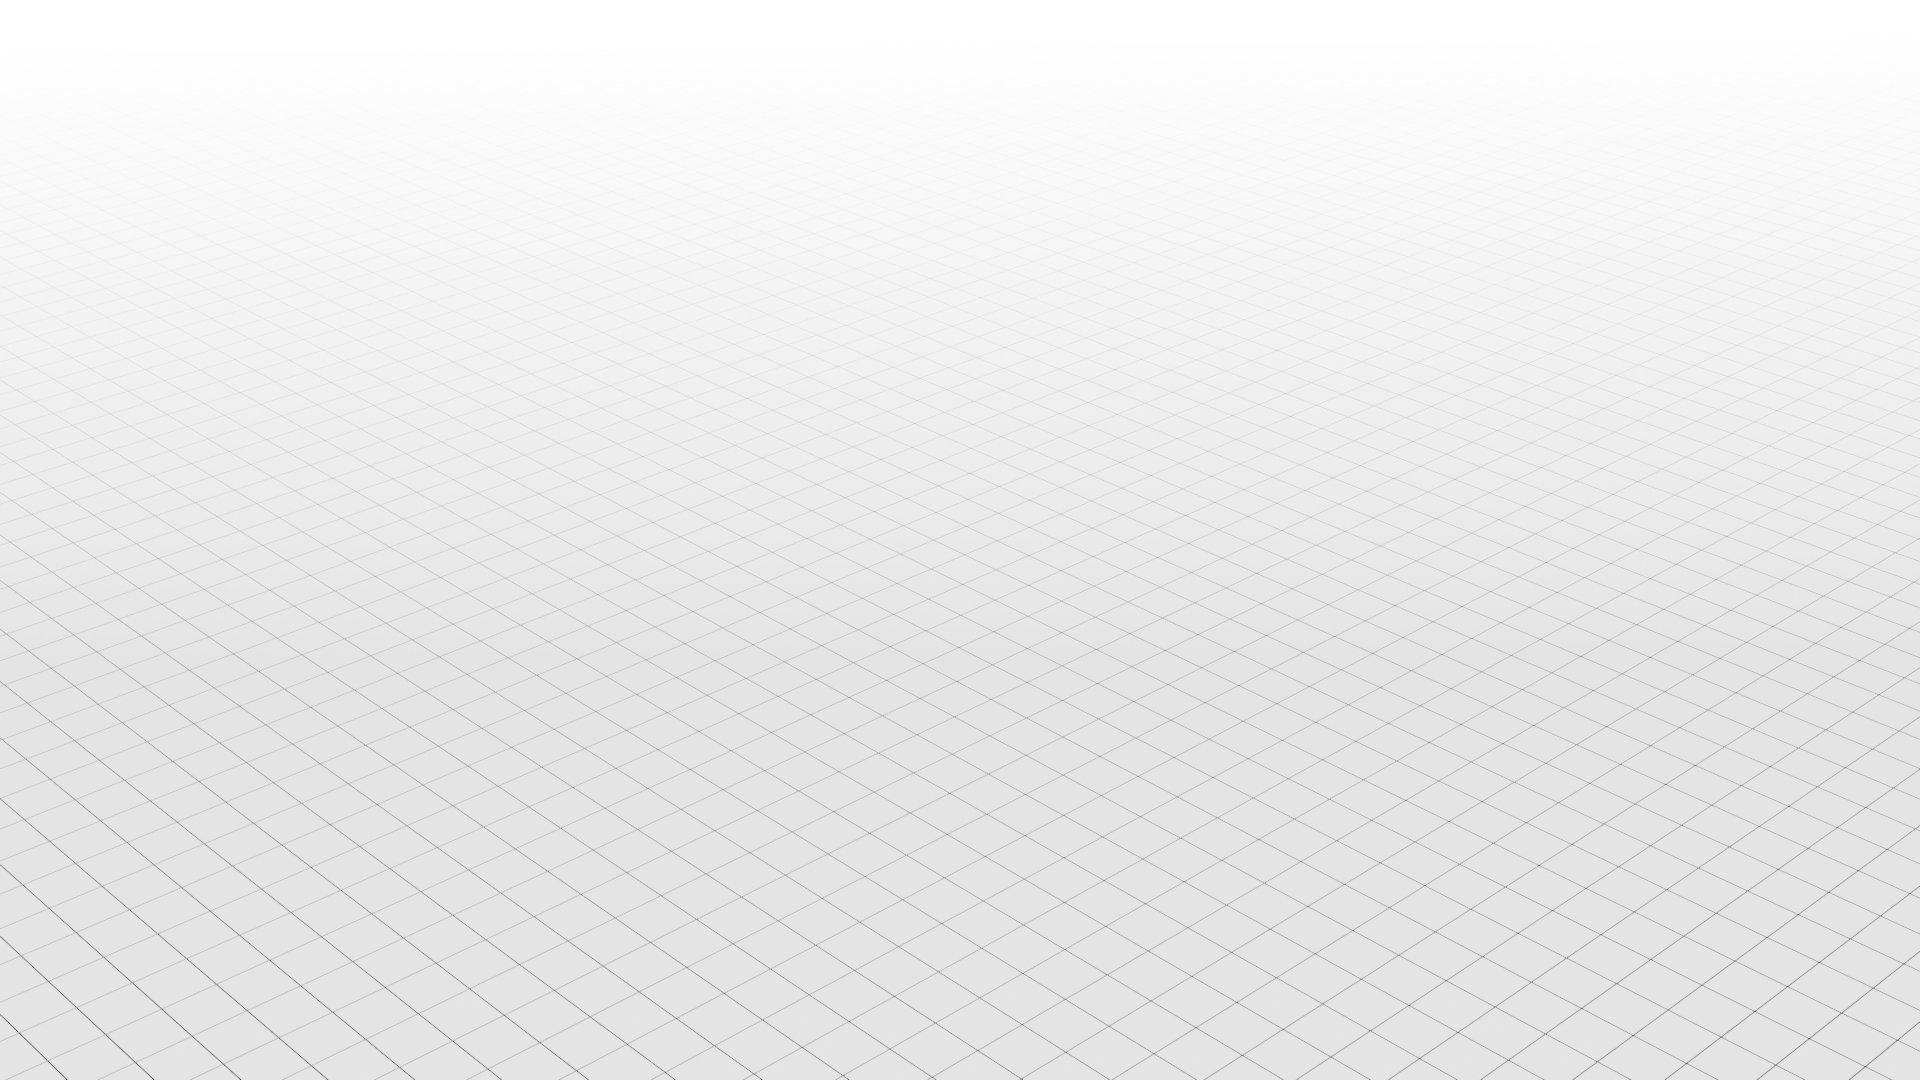
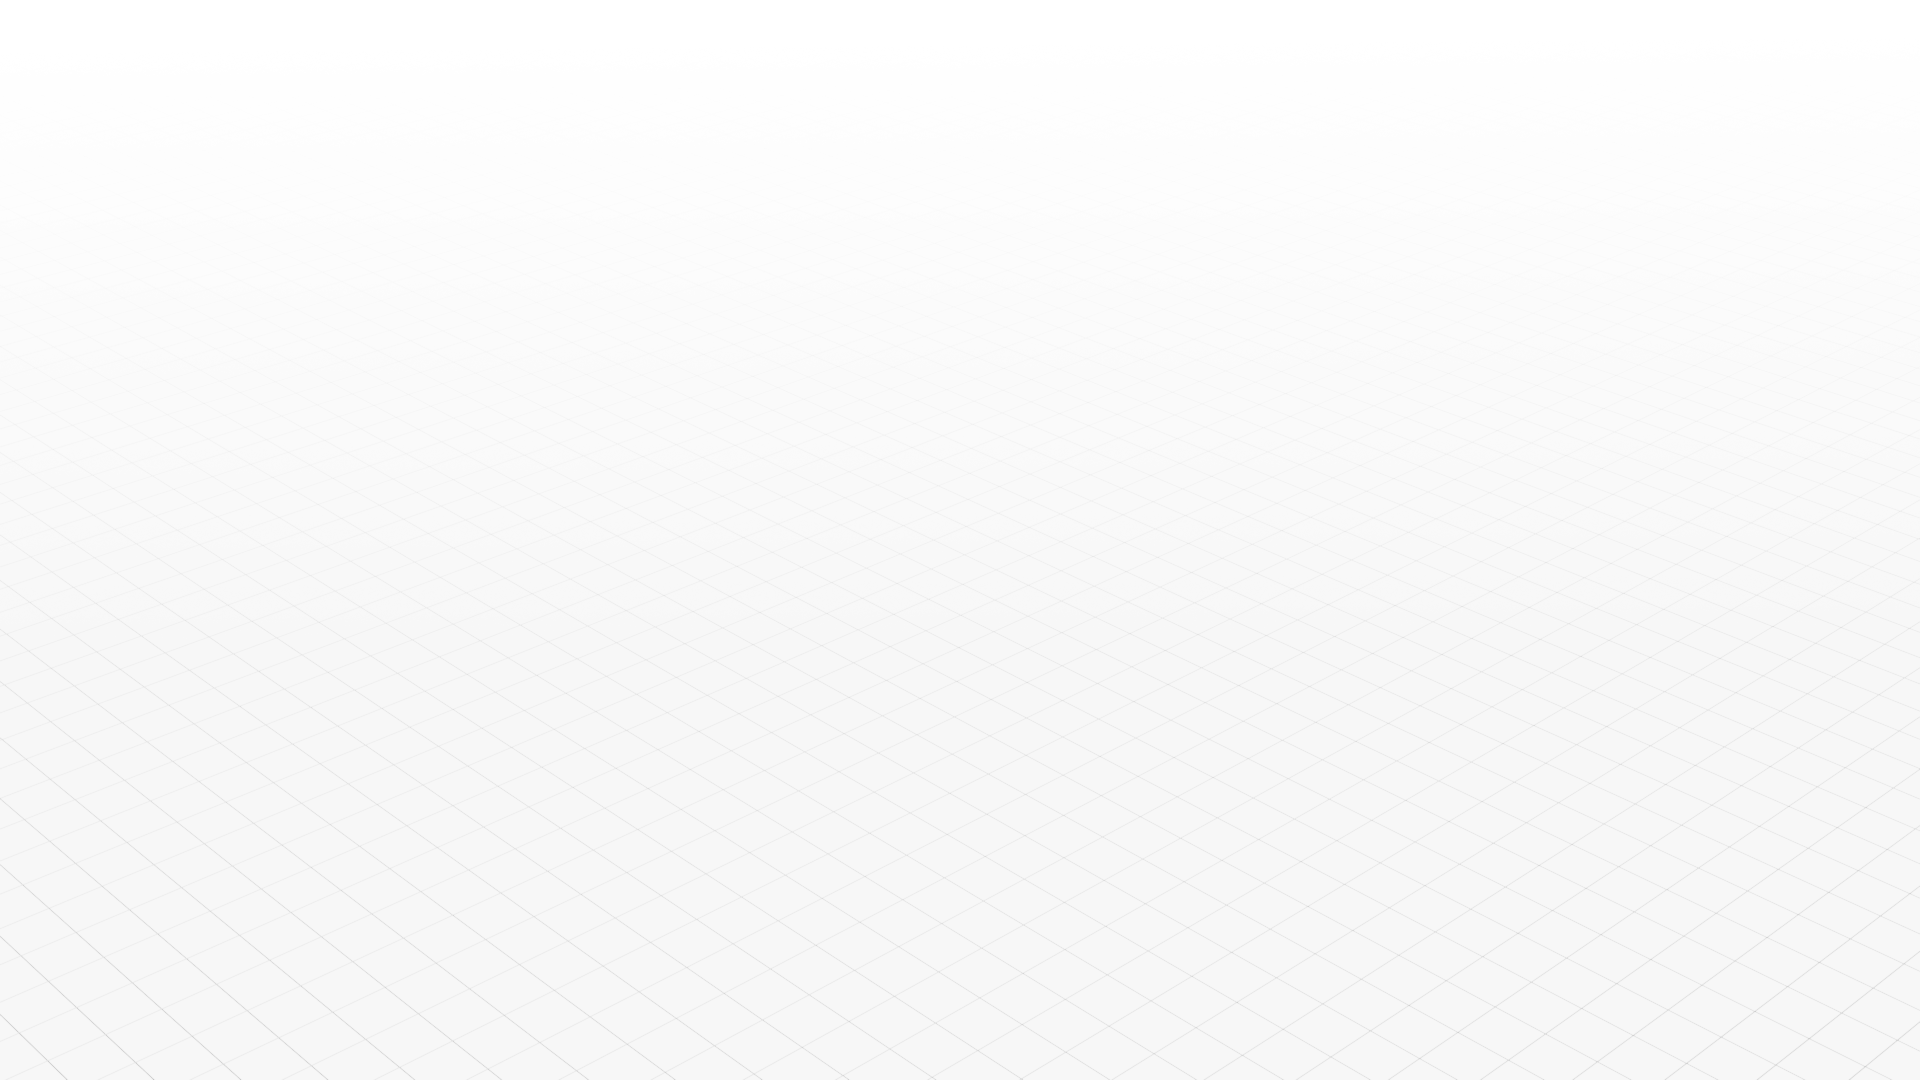
Final Styling

diff --git a/Projects/projects/crosswordmaker/style.css b/Projects/projects/crosswordmaker/style.css
@@ -16,7 +16,7 @@ html, body {
     align-items: center;
     width: 100vw;
     height: 100vh;
-    background-color: white;
+    background-image: url(3dGridBg2.png);
 }
 
 #title {
@@ -53,6 +53,7 @@ button:active {
     transform: scale(0);
     animation: fadein 0.5s 0.5s ease forwards normal;
     margin: 0.5vw;
+    filter: drop-shadow(4px 4px 4px rgba(0, 0, 0, 0.25));
 }
 
 .row {
@@ -121,6 +122,7 @@ button:active {
     border-radius: 16px;
     height: 96%;
     animation: fadeinleft 0.5s 0.3s ease forwards normal;
+    filter: drop-shadow(4px 4px 4px rgba(0, 0, 0, 0.25));
 }
 
 #properties-content {
@@ -145,6 +147,7 @@ button:active {
     transform: translateX(-120%);
     border-radius: 16px;
     animation: fadeinright 0.5s 0.3s ease forwards normal;
+    filter: drop-shadow(4px 4px 4px rgba(0, 0, 0, 0.25));
 }
 
 .option {
@@ -194,7 +197,7 @@ button:active {
     justify-content: center;
     align-items: center;
     height: 100%;
-    font-size: 1.25vw;
+    font-size: 1.5vw;
     font-family:'Franklin Gothic Medium', 'Arial Narrow', Arial, sans-serif
 }
 
@@ -203,6 +206,7 @@ button:active {
     height: 100%;
     top: 0;
     left: 0;
+    font-size: 1.2em;
     font-family: 'Courier New', Courier, monospace;
 }
 
@@ -211,6 +215,7 @@ button:active {
     height: 100%;
     top: 0;
     right: 0;
+    font-size: 1.2em;
     font-family: 'Courier New', Courier, monospace;
 }
 

diff --git a/projects/projects/crosswordmaker/style.css b/projects/projects/crosswordmaker/style.css
@@ -16,7 +16,7 @@ html, body {
     align-items: center;
     width: 100vw;
     height: 100vh;
-    background-color: white;
+    background-image: url(3dGridBg2.png);
 }
 
 #title {
@@ -53,6 +53,7 @@ button:active {
     transform: scale(0);
     animation: fadein 0.5s 0.5s ease forwards normal;
     margin: 0.5vw;
+    filter: drop-shadow(4px 4px 4px rgba(0, 0, 0, 0.25));
 }
 
 .row {
@@ -121,6 +122,7 @@ button:active {
     border-radius: 16px;
     height: 96%;
     animation: fadeinleft 0.5s 0.3s ease forwards normal;
+    filter: drop-shadow(4px 4px 4px rgba(0, 0, 0, 0.25));
 }
 
 #properties-content {
@@ -145,6 +147,7 @@ button:active {
     transform: translateX(-120%);
     border-radius: 16px;
     animation: fadeinright 0.5s 0.3s ease forwards normal;
+    filter: drop-shadow(4px 4px 4px rgba(0, 0, 0, 0.25));
 }
 
 .option {
@@ -194,7 +197,7 @@ button:active {
     justify-content: center;
     align-items: center;
     height: 100%;
-    font-size: 1.25vw;
+    font-size: 1.5vw;
     font-family:'Franklin Gothic Medium', 'Arial Narrow', Arial, sans-serif
 }
 
@@ -203,6 +206,7 @@ button:active {
     height: 100%;
     top: 0;
     left: 0;
+    font-size: 1.2em;
     font-family: 'Courier New', Courier, monospace;
 }
 
@@ -211,6 +215,7 @@ button:active {
     height: 100%;
     top: 0;
     right: 0;
+    font-size: 1.2em;
     font-family: 'Courier New', Courier, monospace;
 }
 
